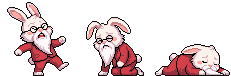
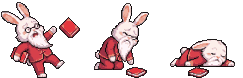
月老換成拿姻緣簿的新圖；測試期間轉生櫃台固定出現月老
Claude-Session: https://claude.ai/code/session_01K6oRAtuf6xdsFm2mqTT7pA

diff --git a/yuelao.html b/yuelao.html
@@ -32,8 +32,8 @@ g.imageSmoothingEnabled = false;
 const sheet = new Image(), hearts = new Image();
 // Gemini 補的動作：每張是一排等寬格子，腳底對齊底邊
 const SHEETS = {
-  walk: { fw: 44, fh: 78, n: 4 }, punch: { fw: 60, fh: 78, n: 4 },
-  cast: { fw: 80, fh: 78, n: 4 }, hurt: { fw: 77, fh: 76, n: 3 },
+  walk: { fw: 42, fh: 78, n: 4 }, punch: { fw: 56, fh: 78, n: 4 },
+  cast: { fw: 80, fh: 78, n: 4 }, hurt: { fw: 81, fh: 78, n: 3 },
 };
 for (const [k, v] of Object.entries(SHEETS)) v.img = new Image();
 const GROUND = 100;
@@ -57,11 +57,11 @@ function frame(i, x, { flip = false, white = false, dy = 0, breath = 0 } = {}) {
   g.restore();
 }
 // 從動作圖畫第 i 格，x 是腳的中心
-const tmp2 = document.createElement('canvas'); tmp2.width = 80; tmp2.height = 78;
+const tmp2 = document.createElement('canvas'); tmp2.width = 81; tmp2.height = 78;
 const tg2 = tmp2.getContext('2d');
 function anim(k, i, x, { flip = false, white = false, dy = 0 } = {}) {
   const { img, fw, fh } = SHEETS[k];
-  tg2.clearRect(0, 0, 80, 78);
+  tg2.clearRect(0, 0, 81, 78);
   tg2.drawImage(img, i * fw, 0, fw, fh, 0, 0, fw, fh);
   if (white) { tg2.globalCompositeOperation = 'source-atop'; tg2.fillStyle = '#fff'; tg2.fillRect(0, 0, fw, fh); tg2.globalCompositeOperation = 'source-over'; }
   const left = Math.round(x - fw / 2), top = GROUND - fh + dy;

diff --git a/js/sprites.js b/js/sprites.js
@@ -346,13 +346,13 @@ function drawPortrait(canvas, name, scale = 6) {
 
 // ───────── 職業專屬像素圖（Gemini 畫的，有連續動作）─────────
 // big：轉生櫃台、城鎮用的大圖；mini：戰鬥格子用的縮小版。每張是一排等寬格子，腳底對齊底邊。
-// pose 那張的格子順序：站、走、坐、睡、出拳（出拳朝左）。
+// pose 那張的格子順序：站、走、坐、睡、出拳。
 const ART = {
   yuelao: {
     dir: 'assets/yuelao/',
     mark: 'heart', // 身邊飄愛心，一眼認得出是月老
     big: { pose: ['sheet.png', 49, 78] },
-    mini: { pose: ['mini/pose.png', 18, 28], walk: ['mini/walk.png', 16, 28], punch: ['mini/punch.png', 22, 28], cast: ['mini/cast.png', 29, 28], hurt: ['mini/hurt.png', 27, 27] },
+    mini: { pose: ['mini/pose.png', 18, 28], walk: ['mini/walk.png', 16, 28], punch: ['mini/punch.png', 21, 28], cast: ['mini/cast.png', 28, 28], hurt: ['mini/hurt.png', 29, 28] },
   },
 };
 // 動作：用哪張、每格停多久（毫秒）

diff --git a/js/battle.js b/js/battle.js
@@ -1114,6 +1114,16 @@ class Battle {
       } else u.anim = null;
     }
     const S = SCALE, ok = drawArt(g, u.art, 'mini', sheet, i, px + TILE * S / 2, py + (TILE + 1) * S, S, { flip, white });
+    // 縮小版的紅線太細會不見，甩出去那兩格另外畫一條粗一點的
+    if (ok && sheet === 'cast' && i >= 2) {
+      const dir = flip ? -1 : 1, hx = px + (8 + dir * 7) * S, hy = py + 4 * S;
+      g.fillStyle = '#e8283c';
+      if (i === 2) for (let k = 0; k < 7; k++) g.fillRect(hx + dir * k * S, hy + Math.round(Math.sin(k * 1.4 + now / 60)) * S, S, S);
+      else for (let k = 0; k < 16; k++) {
+        const a = k / 16 * Math.PI * 2;
+        g.fillRect(Math.round(hx + dir * (5 + 4 * Math.cos(a)) * S), Math.round(hy + 4 * Math.sin(a) * S), S, S);
+      }
+    }
     // 記號：兩顆小東西從肩膀往頭上飄
     const mark = ok && ART[u.art].mark;
     if (mark) {

diff --git a/js/main.js b/js/main.js
@@ -164,6 +164,14 @@ const Game = {
       for (const id of PATH_ORDER) s.offer.paths[id] = draw(FORMS[id].side);
       this.persist();
     }
+    // 測試期間：有專屬像素圖的職業（目前是月老）固定出現在能選它的路上
+    for (const id of PATH_ORDER) {
+      const side = FORMS[id].side, list = s.offer.paths[id];
+      for (const job of Object.keys(ART)) {
+        if (side && FAITHS[job].side !== side) continue;
+        if (!list.includes(job)) list[0] = job;
+      }
+    }
     const root = $('#rebirth .content');
 
     const render = () => {
